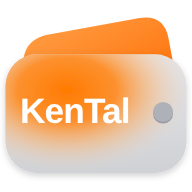
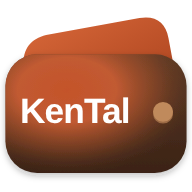
Ikon KenTal: dompet coklat tua, aksen oranye bata
Claude-Session: https://claude.ai/code/session_015Ebc1KBKGqm5xwmaobh5dd

diff --git a/index.html b/index.html
@@ -5,12 +5,12 @@
   <meta name="viewport" content="width=device-width, initial-scale=1, viewport-fit=cover">
   <meta name="theme-color" content="#121212">
   <meta name="robots" content="noindex, nofollow">
-  <link rel="icon" type="image/png" sizes="32x32" href="img/kental-32.png">
-  <link rel="icon" type="image/png" sizes="48x48" href="img/kental-48.png">
-  <link rel="icon" type="image/png" sizes="192x192" href="img/kental-192.png">
-  <link rel="icon" type="image/svg+xml" href="img/icon.svg?v=3">
-  <link rel="apple-touch-icon" href="img/kental-180.png">
-  <link rel="manifest" href="manifest.webmanifest?v=3">
+  <link rel="icon" type="image/png" sizes="32x32" href="img/kental-32.png?v=4">
+  <link rel="icon" type="image/png" sizes="48x48" href="img/kental-48.png?v=4">
+  <link rel="icon" type="image/png" sizes="192x192" href="img/kental-192.png?v=4">
+  <link rel="icon" type="image/svg+xml" href="img/icon.svg?v=4">
+  <link rel="apple-touch-icon" href="img/kental-180.png?v=4">
+  <link rel="manifest" href="manifest.webmanifest?v=4">
   <title>Keuangan Digital</title>
   <link rel="preconnect" href="https://fonts.googleapis.com">
   <link rel="preconnect" href="https://fonts.gstatic.com" crossorigin>
@@ -36,7 +36,7 @@
     <!-- ═════════ SIDEBAR (desktop/tablet) ═════════ -->
     <aside class="sidebar" id="sidebar" aria-label="Navigasi utama">
       <div class="brand">
-        <img class="brand-logo" src="img/icon.svg?v=2" alt="KenTal">
+        <img class="brand-logo" src="img/icon.svg?v=4" alt="KenTal">
         <div class="brand-text">
           <strong>Keuangan Digital</strong>
           <small>PERSONAL FINANCE</small>
@@ -143,7 +143,7 @@
   <!-- LAYAR MASUK — menutupi aplikasi sampai login berhasil -->
   <div class="auth-screen" id="authScreen" hidden>
     <div class="auth-card" role="dialog" aria-modal="true" aria-labelledby="authTitle">
-      <img class="brand-logo" src="img/icon.svg?v=2" alt="KenTal">
+      <img class="brand-logo" src="img/icon.svg?v=4" alt="KenTal">
       <h1 id="authTitle">Keuangan Digital</h1>
       <p id="authSub">Masuk untuk melanjutkan</p>
       <div class="auth-msg" id="authMsg" hidden></div>
